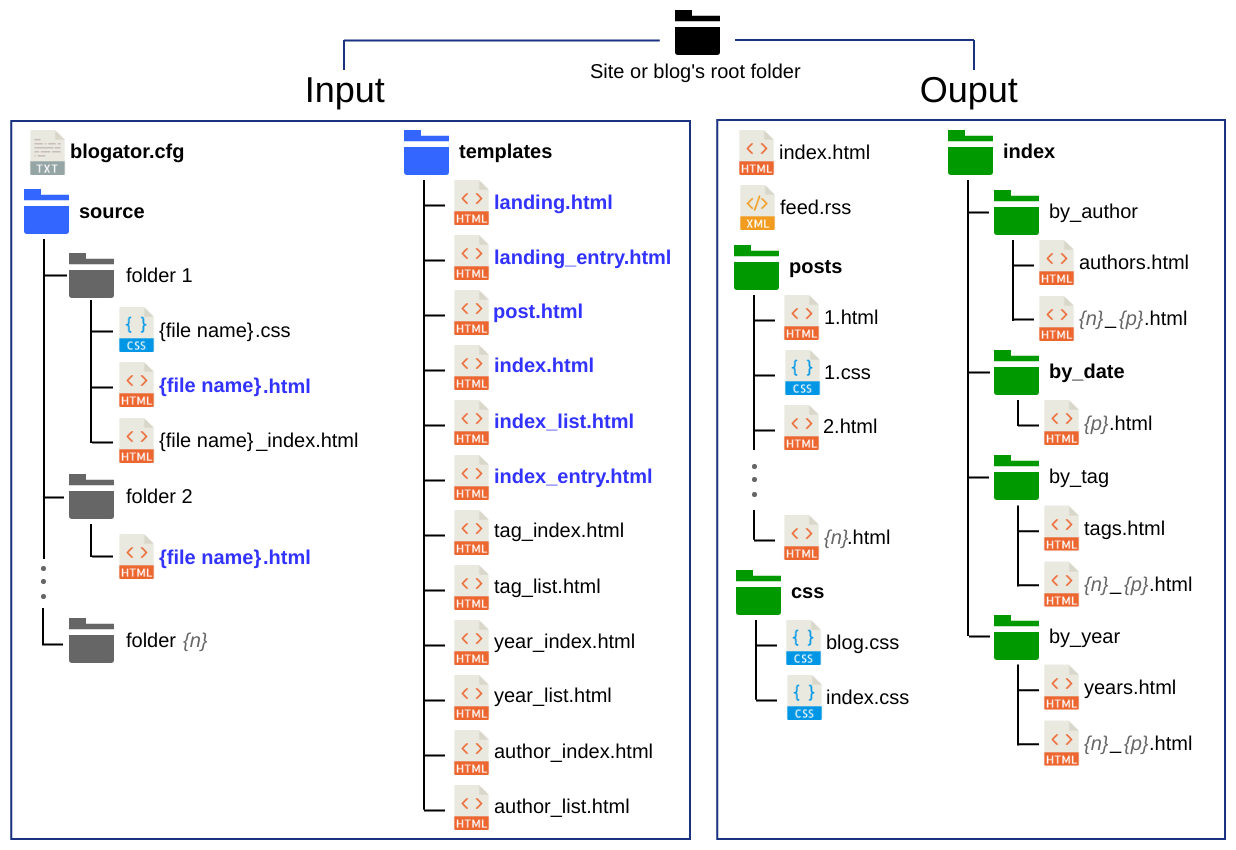
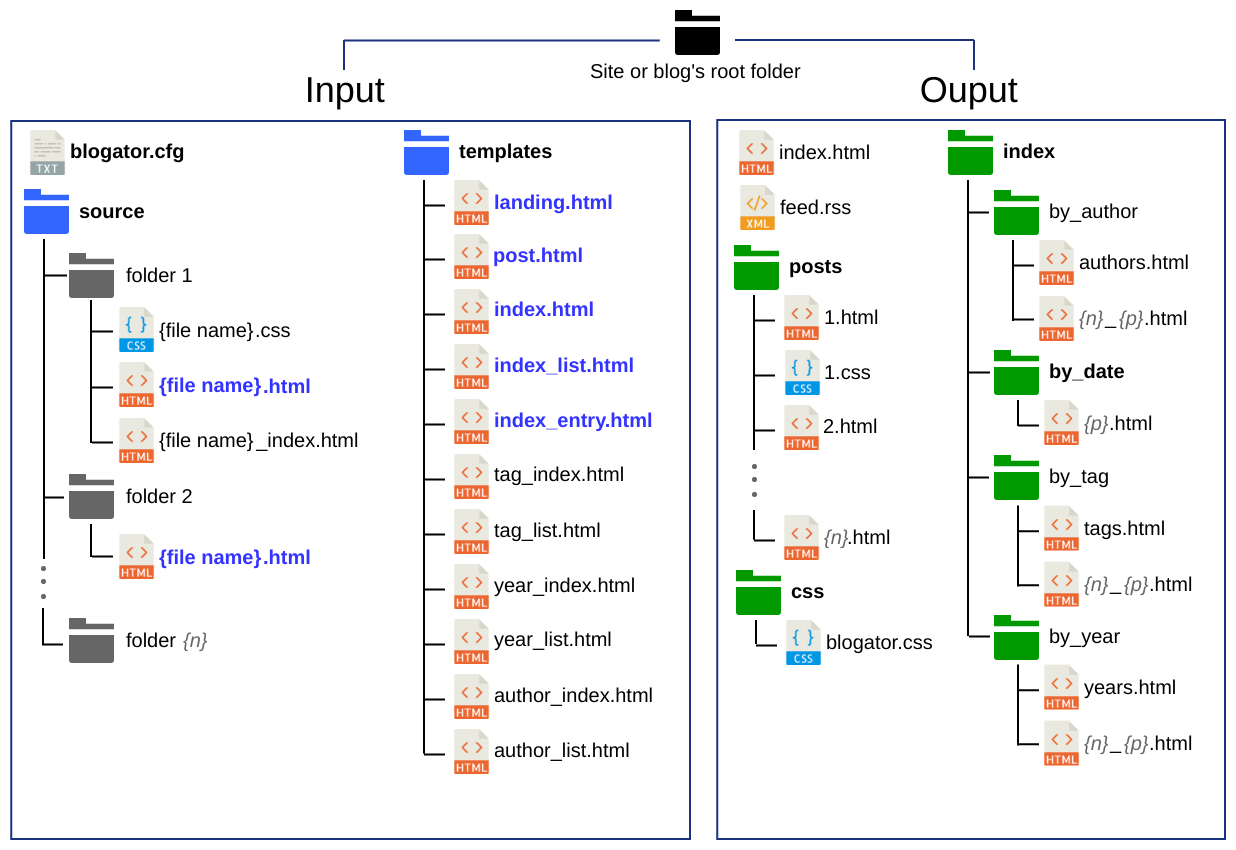
[Docs] update on the file diagram ('landing_entry' deleted as not relevant anylonger), [indexer::] Cleanup.

diff --git a/src/indexer/indexer.cpp b/src/indexer/indexer.cpp
@@ -635,7 +635,7 @@ blogator::dto::Article blogator::indexer::readFileProperties( const dto::Options
     const static auto author_tag  = std::make_pair<std::string, std::string>( "<span class=\"author\">", "</span>" );
     const static auto date_tag    = std::make_pair<std::string, std::string>( "<time datetime=\"", "\"" );
     const static auto tag_tag     = std::make_pair<std::string, std::string>( "<span class=\"tag\">", "</span>" );
-    const static auto code_tag    = std::make_pair<std::string, std::string>( "<code", "</code>" );
+    const static auto template_kw = std::make_pair<std::string, std::string>( "{{", "}}" ); //TODO
 
 //    const static auto heading_rx = std::regex( "<h1>\\s*(.*)\\s*</h1>" );
 //    const static auto date_rx    = std::regex( "<time datetime=\"(\\d{4})-(\\d{2})-(\\d{2})\">" );
@@ -704,7 +704,7 @@ blogator::dto::Article blogator::indexer::readFileProperties( const dto::Options
                     summary_range_pos.emplace_back( dto::SeekRange( start, finish ) );
                 }
 
-                article._summary.html           = fs::importHTML( article._paths.src_html, summary_range_pos );
+                article._summary.html = fs::importHTML( article._paths.src_html, summary_range_pos );
 
                 auto hrefs_count = html::editor::removeHyperlinks( article._summary.html );
 
